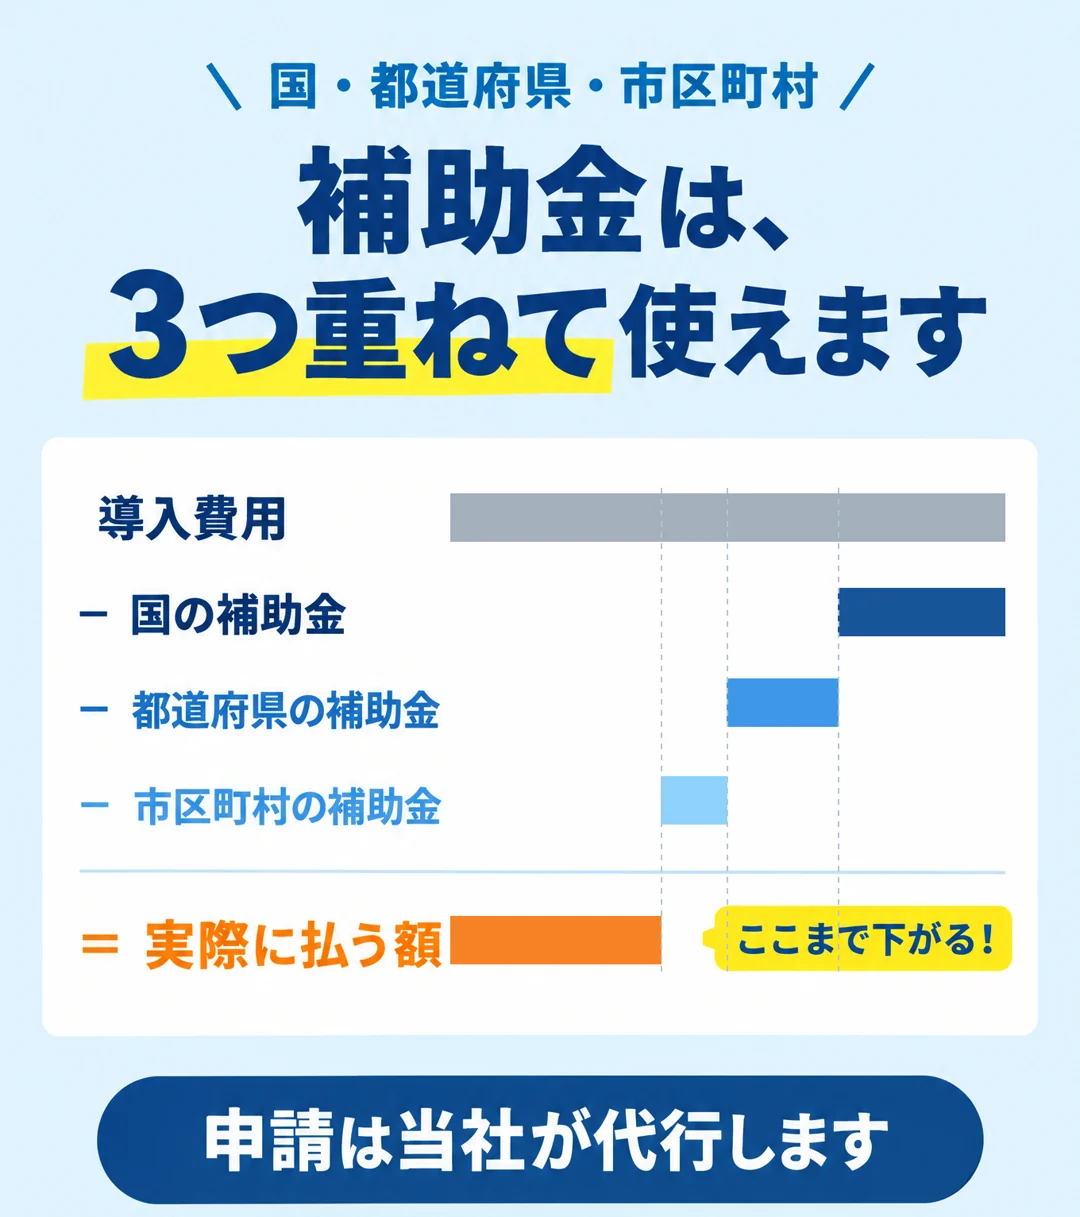
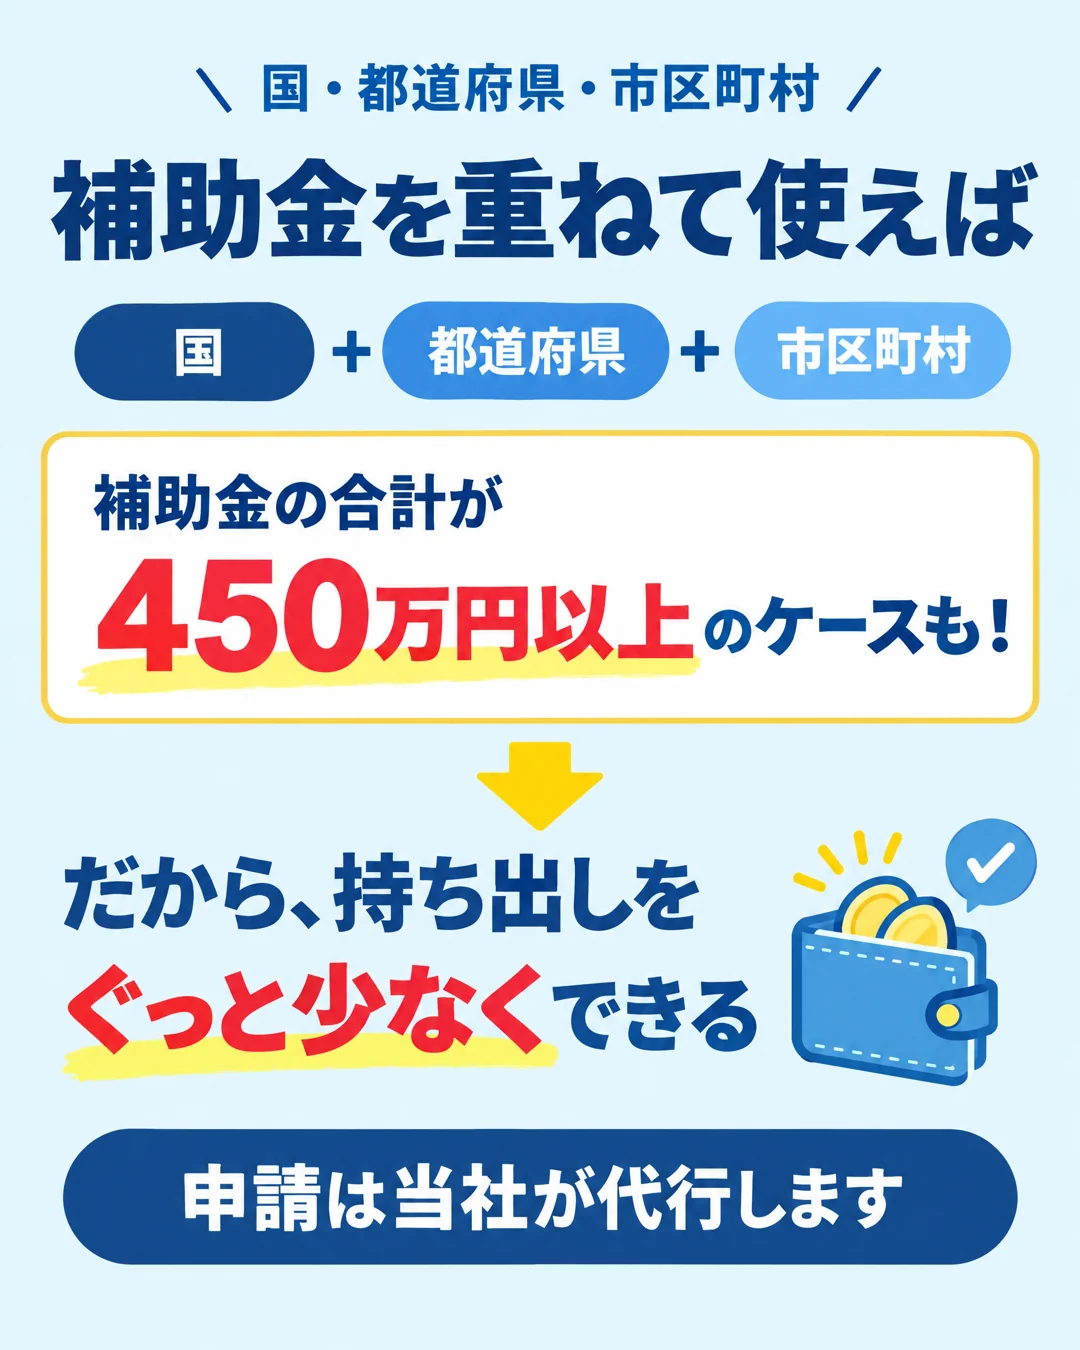
Add files via upload

diff --git a/index.html b/index.html
@@ -527,9 +527,9 @@ header.hd{justify-content:flex-start!important}header.hd .brand{display:flex;ali
 </div>
 
 <div id="ch4"></div>
-<img class="sx" src="I11.webp" alt="補助金は国・都道府県・市区町村の3つ重ねて使えます。導入費用から各補助金を引いた額が実際に払う額。申請は当社が代行します" loading="lazy" decoding="async">
+<img class="sx" src="I11.webp" alt="国・都道府県・市区町村の補助金を重ねて使えば、補助金の合計が450万円以上のケースも。だから持ち出しをぐっと少なくできる。申請は当社が代行します" loading="lazy" decoding="async">
 <img class="sx" src="I11b.webp" alt="重要なお知らせ。自治体の補助金は予算がなくなり次第、受付終了。検討中の方は、早めの診断がおすすめです" loading="lazy">
-<div class="blk"><p class="note">※国：蓄電池のDR補助金＋給湯省エネ 上限<span class="kari">74万円</span>／都道府県・市区町村 上限<span class="kari">◯万円</span>。図はイメージで、全額受け取れるとは限りません。契約・工事の前に申請が必要な制度もあります（当社は交付決定を待って着工します）</p></div>
+<div class="blk"><p class="note">※補助金の額は地域・設備・時期により異なり、全額受け取れるとは限りません。450万円以上は複数の制度を組み合わせた場合の一例です。契約・工事の前に申請が必要な制度もあります（当社は交付決定を待って着工します）</p></div>
 <img class="sx" src="I12.webp" alt="2つのご家庭で試算。ケース1 4人家族・オール電化 30,000円→3,000円（約90%削減）、元が取れるまで補助金なし約15年・補助金あり約3年。ケース2 2人暮らし・ガス併用から 18,000円→4,300円（約76%削減）、補助金なし約21年・補助金あり約3年" loading="lazy" decoding="async">
 <div class="blk"><p class="note">※当社試算。実在のお客様の数値ではありません。補助金は最大額（ケース1：389万円／ケース2：307万円）を使えた場合。売電収入・値上がり・メンテナンス費は含みません</p></div>
 <div class="cta-band pale">
